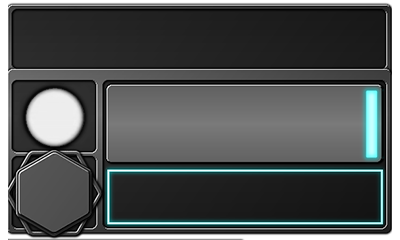
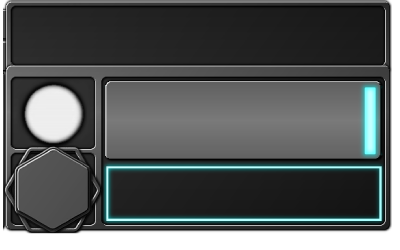
Add files via upload

diff --git a/src/components/HtmlBase/mainwindow.vue b/src/components/HtmlBase/mainwindow.vue
@@ -86,7 +86,7 @@ const handleShow = () => {
              style="position: absolute; top: 0; left: 0; height: inherit; width: inherit;" />
       </div>
       
-      <div style="position: absolute; top: 75px; left: 7px; height: 160px; width: 120px; z-index: 1;">
+      <div style="position: absolute; top: 75px; left: 6px; height: 160px; width: 120px; z-index: 1;">
         <img id="leaderpic" class="pic" src="/preset/Portrait_GER_Reichstag_Emergency_Council.png" style="position: absolute; top: 0; left: 0; height: inherit; width: inherit;" />
       </div>
       <div style="position: absolute; top: 79px; left: 7px; height: 160px; width: 120px; z-index: 0;">
@@ -98,19 +98,19 @@ const handleShow = () => {
     <div>
       <img src="/template/diplo_upper_win_bg.png" style="position: absolute; z-index: 2; left: 125px; top: 4px" />
       
-      <div style="position: absolute; top: 42px; left: 177px; z-index: 3; display: flex; justify-content: center; align-items: center;">
+      <div style="position: absolute; top: 40px; left: 177px; z-index: 3; display: flex; justify-content: center; align-items: center;">
         <img id="ideologypic" class="pic" src="/preset/national_socialism_group.png" data-modifiable="true" data-type="ideology" data-resizable="true" data-initial-scale="1" :style="{ position: 'absolute', scale: 1 }" data-target-id="ideologypic" />
       </div>
-      <div style="position: absolute; top: 43px; left: 485px; z-index: 3; display: flex; justify-content: center; align-items: center;">
+      <div style="position: absolute; top: 38px; left: 485px; z-index: 3; display: flex; justify-content: center; align-items: center;">
         <img id="factionpic" class="pic" src="/preset/Leader-Einheitspakt.png" data-modifiable="true" data-type="faction" data-resizable="true" data-initial-scale="0.8" :style="{ position: 'absolute', scale: 0.8 }" data-target-id="factionpic" />
       </div>
       
-      <div style="position: absolute; top: 202px; left: 179px; z-index: 5; display: flex; justify-content: center; align-items: center;">
+      <div style="position: absolute; top: 197px; left: 179px; z-index: 5; display: flex; justify-content: center; align-items: center;">
         <img id="focuspic" class="pic" src="/preset/goal_unknown.png" data-modifiable="true" data-type="focus" data-resizable="true" data-initial-scale="0.9" :style="{ position: 'absolute', scale: 0.9 }" data-target-id="focuspic" />
       </div>
 
       <!-- 饼图 -->
-      <div style="position: absolute; top: 68px; left: 129px; width: 100px; height: 100px; z-index: 1; pointer-events: none;">
+      <div style="position: absolute; top: 64px; left: 128.7px; width: 100px; height: 100px; z-index: 1; pointer-events: none;">
         <Pie class="piechart" style="position: absolute; top: 4px; left: 0px; width: 100px; height: 100px; background: none; scale: 0.6; z-index: 1;" v-model="state.chartData" />
       </div>
       <img src="/template/pol_piechart_overlay_63x63.png" style="position: absolute; top: 68px; left: 129px; width: 63px; height: 63px; scale: 1.0; z-index: 5;" @click="editorVisible = true" />
@@ -124,7 +124,7 @@ const handleShow = () => {
           z-index: 3; 
           position: absolute; 
           left: 215px; 
-          top: 25px; 
+          top: 22px; 
           font-family: Bombard, FZWH; 
           font-size: 14px; 
         ">
@@ -176,7 +176,7 @@ const handleShow = () => {
       <!-- 下部文字：党派、意识形态、选举、未知国策 -->
       <div style="
           position: absolute;
-          top: 95px;
+          top: 90px;
           left: 238px;
           font-family: Aldrich, FZRui;
           font-size: 17px;
@@ -188,12 +188,12 @@ const handleShow = () => {
           <!-- 1. 党派 -->
           <div style="position: relative; width: max-content; height: 24px;">
             <p class="text" style="
-                position: absolute; top: 0; left: 0; width: max-content;
+                position: absolute; top: 2px; left: 0; width: max-content;
                 color: transparent; -webkit-text-stroke: 3px #000000;
                 pointer-events: none; margin: 0; z-index: 0;
               " v-html="textLines[0]"></p>
             <p id="party" class="text" style="
-                position: relative; top: 0; left: 0; width: max-content;
+                position: relative; top: 2px; left: 0; width: max-content;
                 color: #c6c6c8; margin: 0; z-index: 2;
                 pointer-events: none;
               " v-html="textLines[0]"></p>
@@ -216,12 +216,12 @@ const handleShow = () => {
           <!-- 3. 选举 -->
           <div style="position: relative; width: max-content; height: 24px;">
             <p class="text" style="
-                position: absolute; top: 0; left: 0; width: max-content;
+                position: absolute; top: -2px; left: 0; width: max-content;
                 color: transparent; -webkit-text-stroke: 3px #000000;
                 pointer-events: none; margin: 0; z-index: 0;
               " v-html="textLines[2]"></p>
             <p id="election" class="text" style="
-                position: relative; top: 0; left: 0; width: max-content;
+                position: relative; top: -2px; left: 0; width: max-content;
                 color: #c6c6c8; margin: 0; z-index: 2;
                 pointer-events: none;
               " v-html="textLines[2]"></p>
